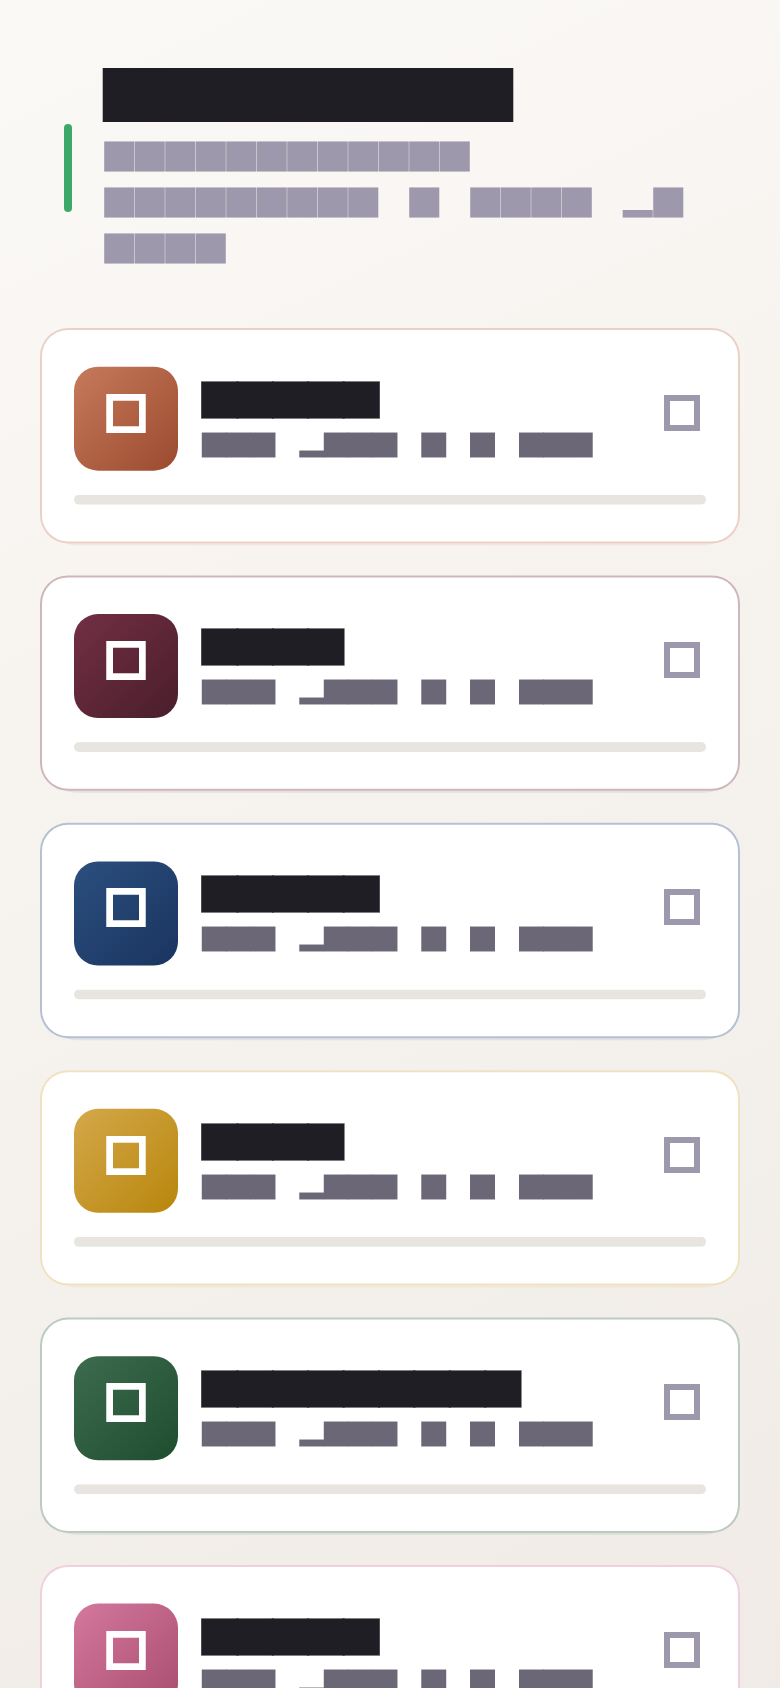
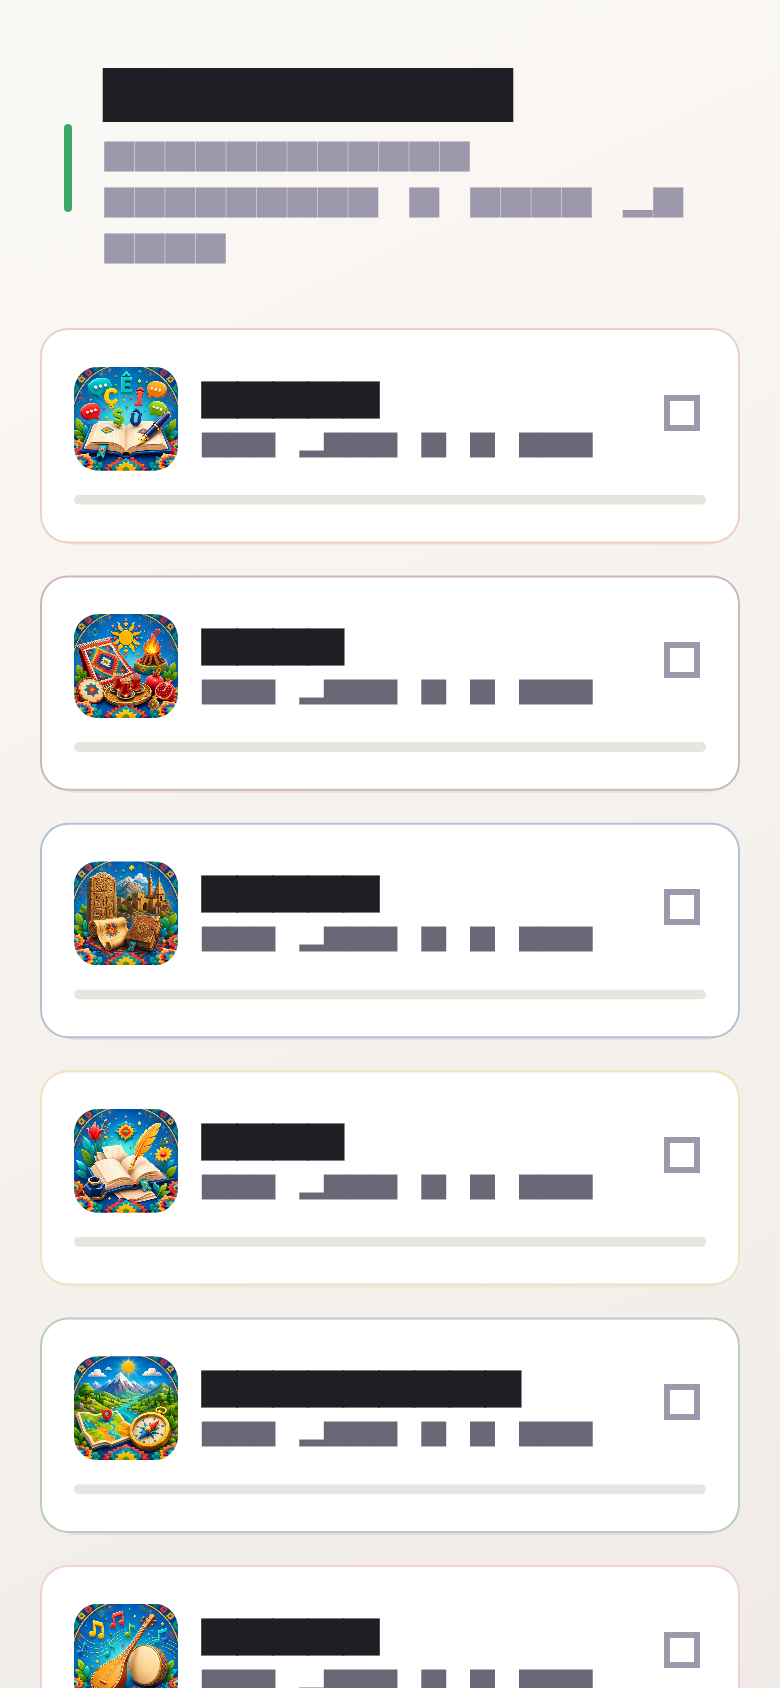
feat: Pirs sadelik ogeleri — resimli kategori kartlari + tek gunluk CTA
- Kategori satirlarinda kullanilmayan cat_*.webp illustrasyonlari kucuk
  resim olarak baglandi (Pirs imzasi: gorsel kimlikli kategori karti);
  gorsel yoksa ikon cipine duser
- Home'daki Zana karti sakin 'Gotina Roje' (gunun sozu) moduna alindi;
  ogrenme/tekrar CTA'si tek yerde (Derse rojane) — uc ayri 'gunluk hedef'
  karmasasi bitti

diff --git a/zankurd_mobile/lib/src/screens/categories_tab.dart b/zankurd_mobile/lib/src/screens/categories_tab.dart
@@ -495,21 +495,34 @@ class _CategoryCardState extends State<_CategoryCard>
                   children: [
                     Row(
                       children: [
-                        Container(
-                          width: 52,
-                          height: 52,
-                          decoration: BoxDecoration(
-                            borderRadius: BorderRadius.circular(AppRadius.sm),
-                            gradient: LinearGradient(
-                              begin: Alignment.topLeft,
-                              end: Alignment.bottomRight,
-                              colors: [
-                                gradientColors.first,
-                                gradientColors.last,
-                              ],
+                        // Pirs imzası: kategori kimliğini illüstrasyon taşır.
+                        ClipRRect(
+                          borderRadius: BorderRadius.circular(AppRadius.sm),
+                          child: Image.asset(
+                            CategoryVisuals.imagePath(widget.category),
+                            width: 52,
+                            height: 52,
+                            fit: BoxFit.cover,
+                            filterQuality: FilterQuality.high,
+                            errorBuilder: (_, _, _) => Container(
+                              width: 52,
+                              height: 52,
+                              decoration: BoxDecoration(
+                                borderRadius: BorderRadius.circular(
+                                  AppRadius.sm,
+                                ),
+                                gradient: LinearGradient(
+                                  begin: Alignment.topLeft,
+                                  end: Alignment.bottomRight,
+                                  colors: [
+                                    gradientColors.first,
+                                    gradientColors.last,
+                                  ],
+                                ),
+                              ),
+                              child: Icon(icon, color: Colors.white, size: 26),
                             ),
                           ),
-                          child: Icon(icon, color: Colors.white, size: 26),
                         ),
                         const SizedBox(width: AppSpacing.sm),
                         Expanded(

diff --git a/zankurd_mobile/lib/src/screens/home_screen.dart b/zankurd_mobile/lib/src/screens/home_screen.dart
@@ -275,11 +275,8 @@ class _HomeScreenState extends State<HomeScreen> with TickerProviderStateMixin {
                             _heroFadeAnimation(2),
                             KeyedSubtree(
                               key: const ValueKey('home-learning-entry'),
-                              child: ZanaDailyCard(
-                                isKu: ku,
-                                onStart: widget.onOpenLearning,
-                                reviewReadyCount: _reviewReadyCount,
-                              ),
+                              // Sakin kapanış: Zana + günün sözü (CTA'sız).
+                              child: ZanaDailyCard(isKu: ku),
                             ),
                           ),
                         ],
@@ -354,11 +351,10 @@ class _HomeScreenState extends State<HomeScreen> with TickerProviderStateMixin {
                         _heroFadeAnimation(3),
                         KeyedSubtree(
                           key: const ValueKey('home-learning-entry'),
-                          child: ZanaDailyCard(
-                            isKu: ku,
-                            onStart: widget.onOpenLearning,
-                            reviewReadyCount: _reviewReadyCount,
-                          ),
+                          // Sakin kapanış: Zana + günün sözü. Öğrenme/tekrar
+                          // CTA'sı tek yerde (Dersê rojane) yaşar — üç ayrı
+                          // "günlük hedef" karmaşası olmasın (Pirs sadeliği).
+                          child: ZanaDailyCard(isKu: ku),
                         ),
                       ),
                     );